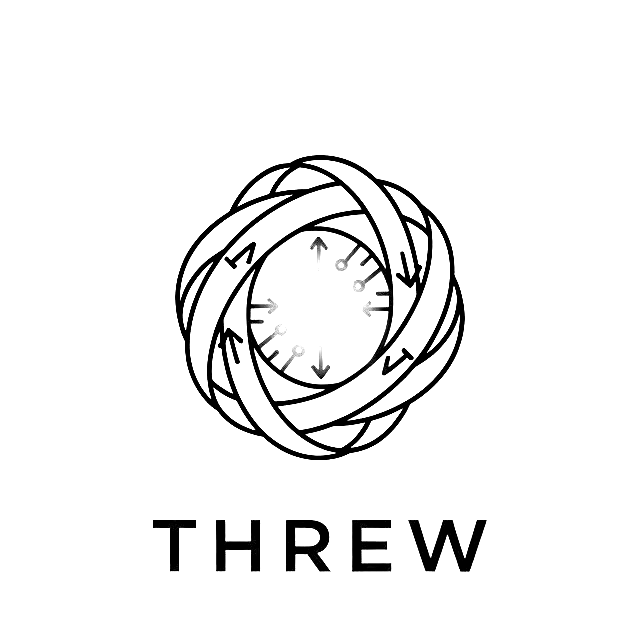
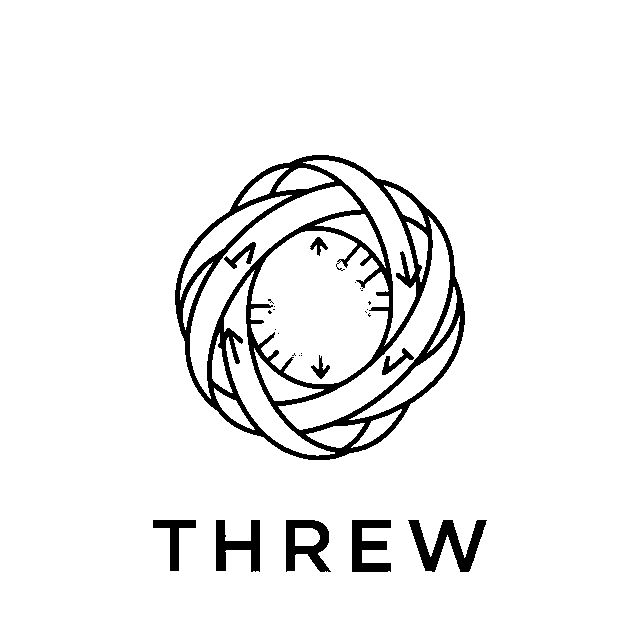
fix(brand): make mark opaque and increase navbar size

diff --git a/components/navigation/Navbar.tsx b/components/navigation/Navbar.tsx
@@ -49,16 +49,16 @@ export function Navbar({
                 <Image
                   src="/brand/trew-mark-black.png"
                   alt="Trew"
-                  width={40}
-                  height={40}
+                  width={44}
+                  height={44}
                   priority
                   className="block dark:hidden"
                 />
                 <Image
                   src="/brand/trew-mark-white.png"
                   alt="Trew"
-                  width={40}
-                  height={40}
+                  width={44}
+                  height={44}
                   priority
                   className="hidden dark:block"
                 />
